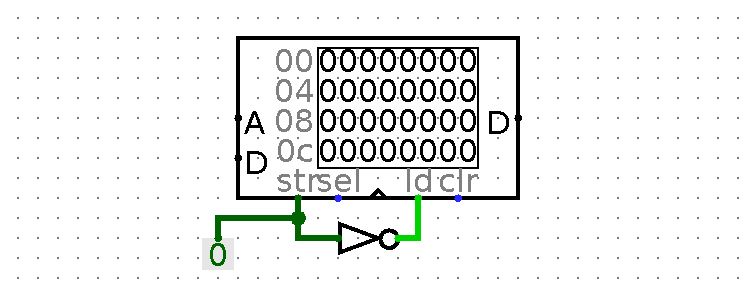
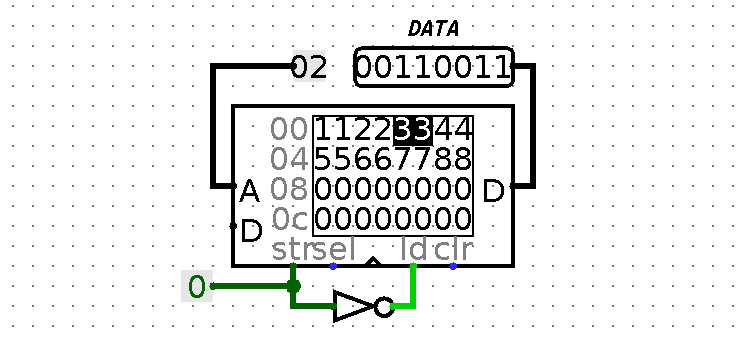
UPDATE

Changed region(s): [[0.2164, 0.0612, 0.7419, 0.949]]

diff --git a/README.md b/README.md
@@ -17,15 +17,15 @@
 [ D:   Data        ]    数据接口    数据的 输入 / 输出 接口
 [ ld:  Load        ]    载入接口    输入 1 时 允许从 RAM 读取数据
 [ str: Store       ]    保存接口    输入 1 时 允许向 RAM 写入数据
-[ Clr: Clear       ]    重置接口    输入 1 时 异步重置整个 RAM
+[ Clr: Clear       ]    重置接口    输入 1 时 异步将整个 RAM 数据重置为 0
 [ Sel: Chip Select ]    片选接口    输入 0 时 锁定整个 RAM
 ```
 
-> 写入模式
+> 向地址 `02` 写入数据
 
 <img height=150 src="./images/RAM-Write.png" />
 
-> 读取模式
+> 读取 `02` 地址上的数据
 
 <img height=150 src="./images/RAM-Read.png" />
 
